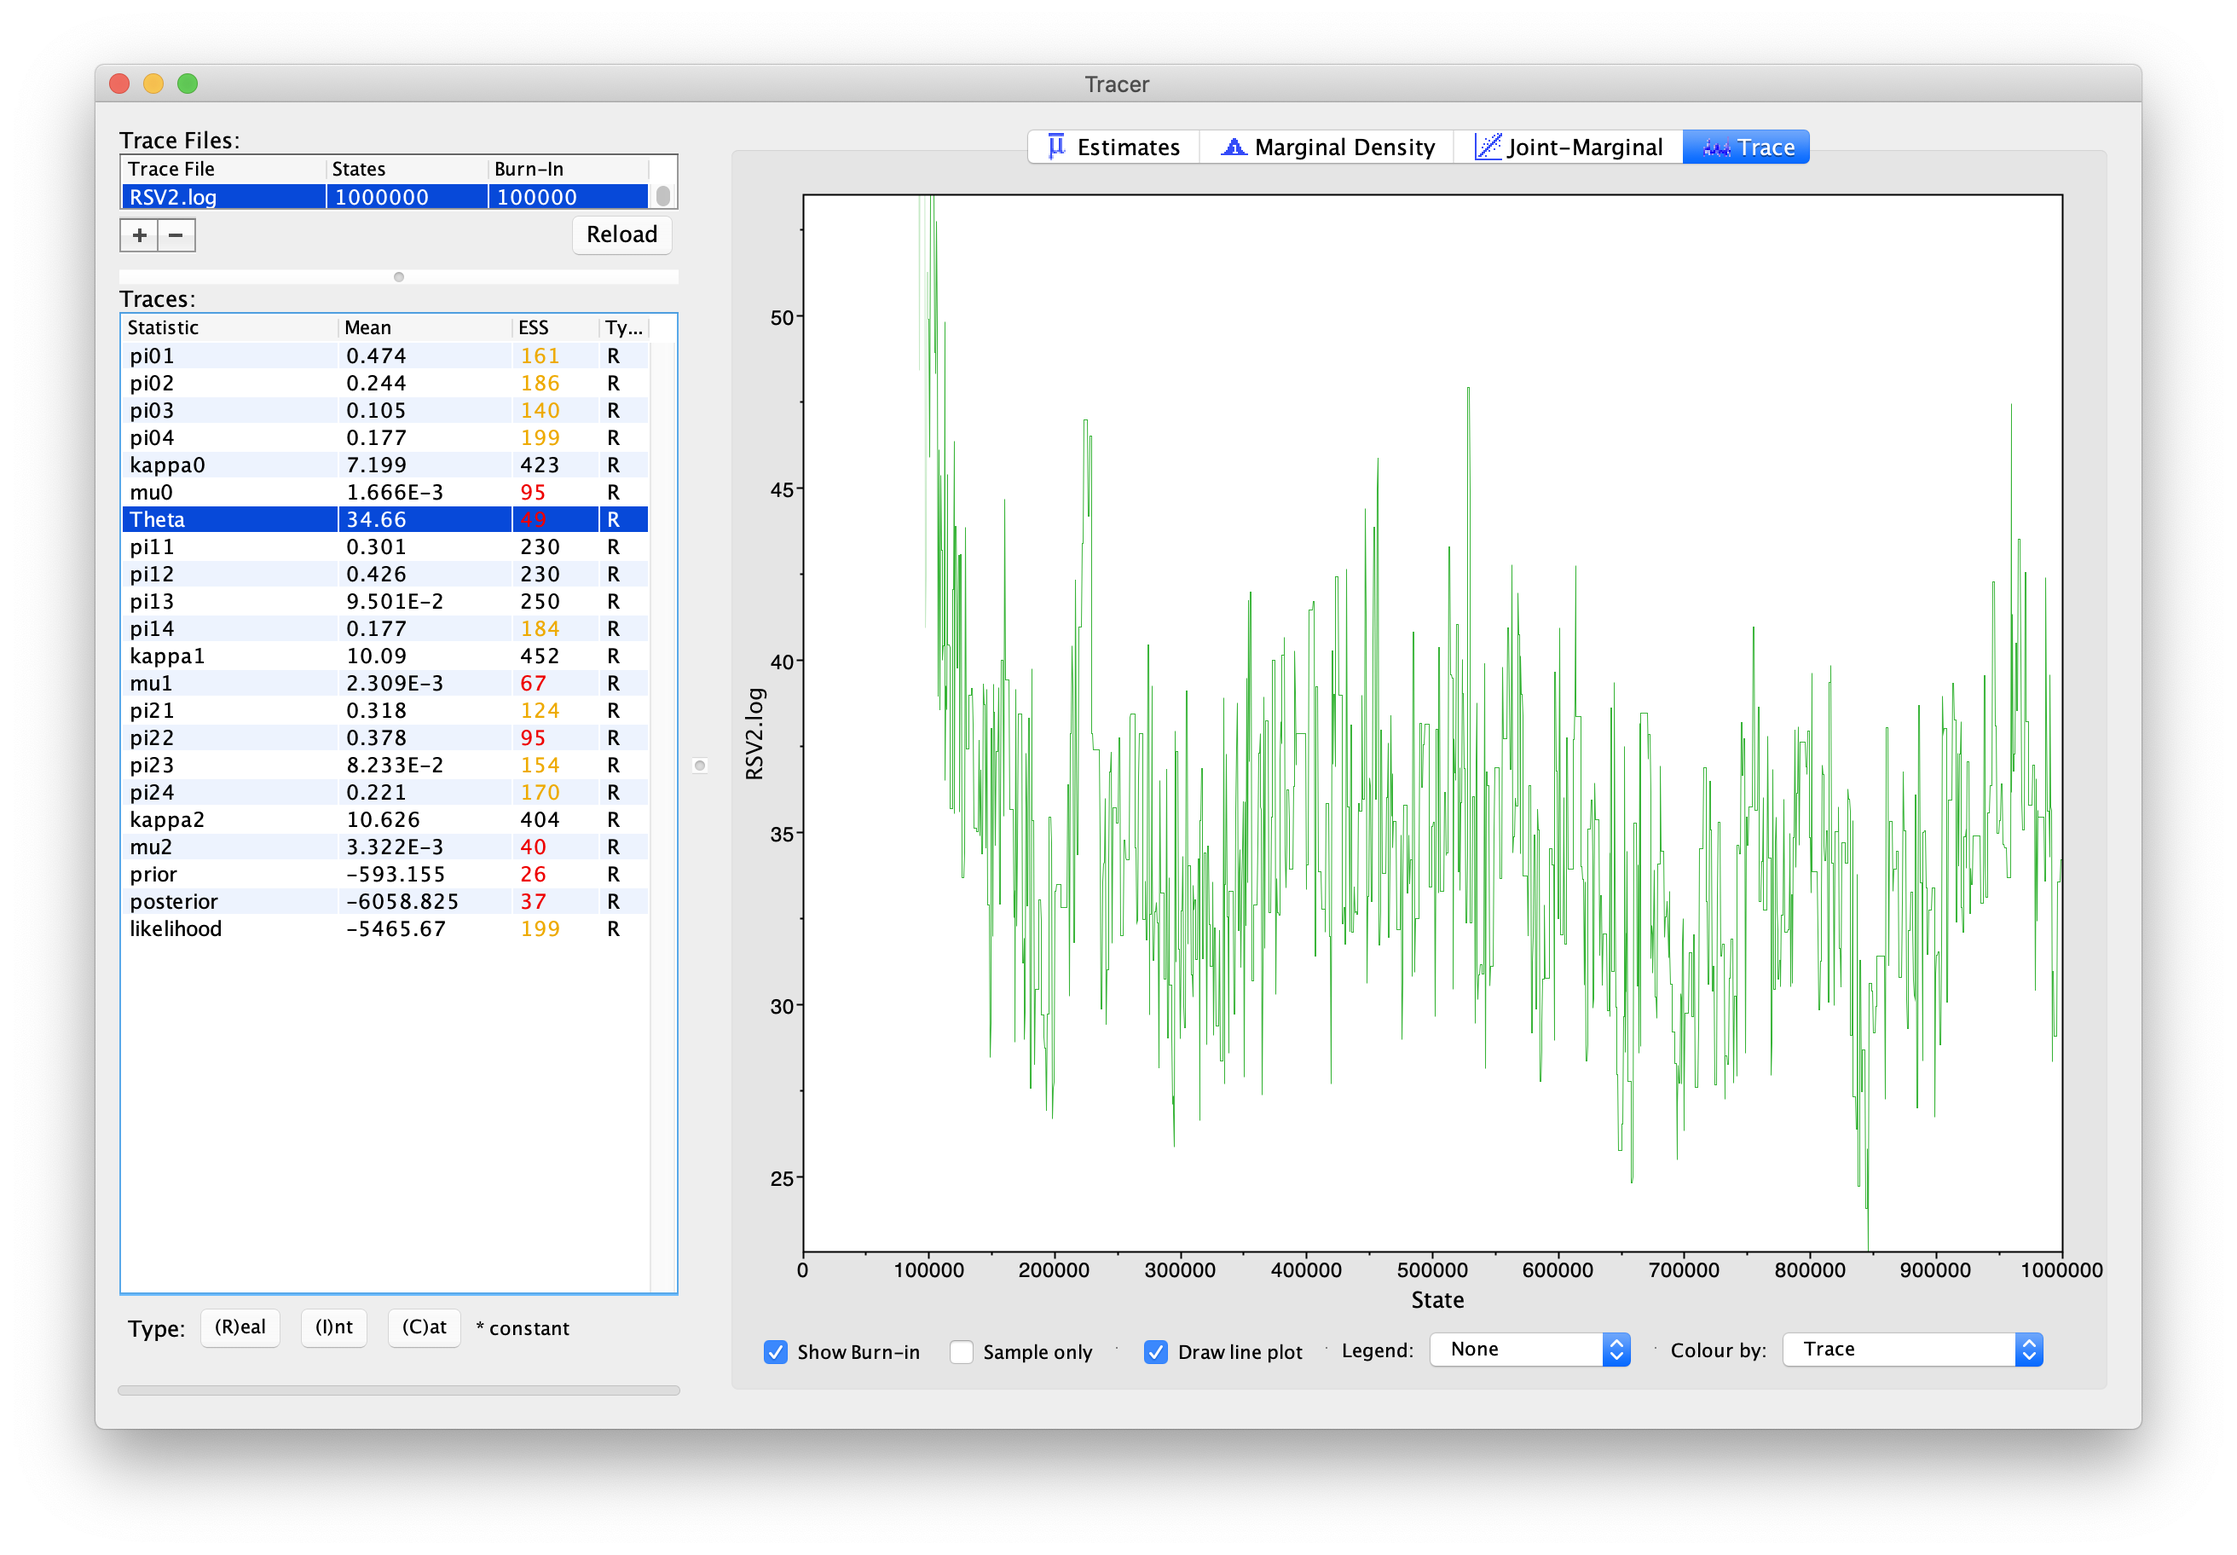
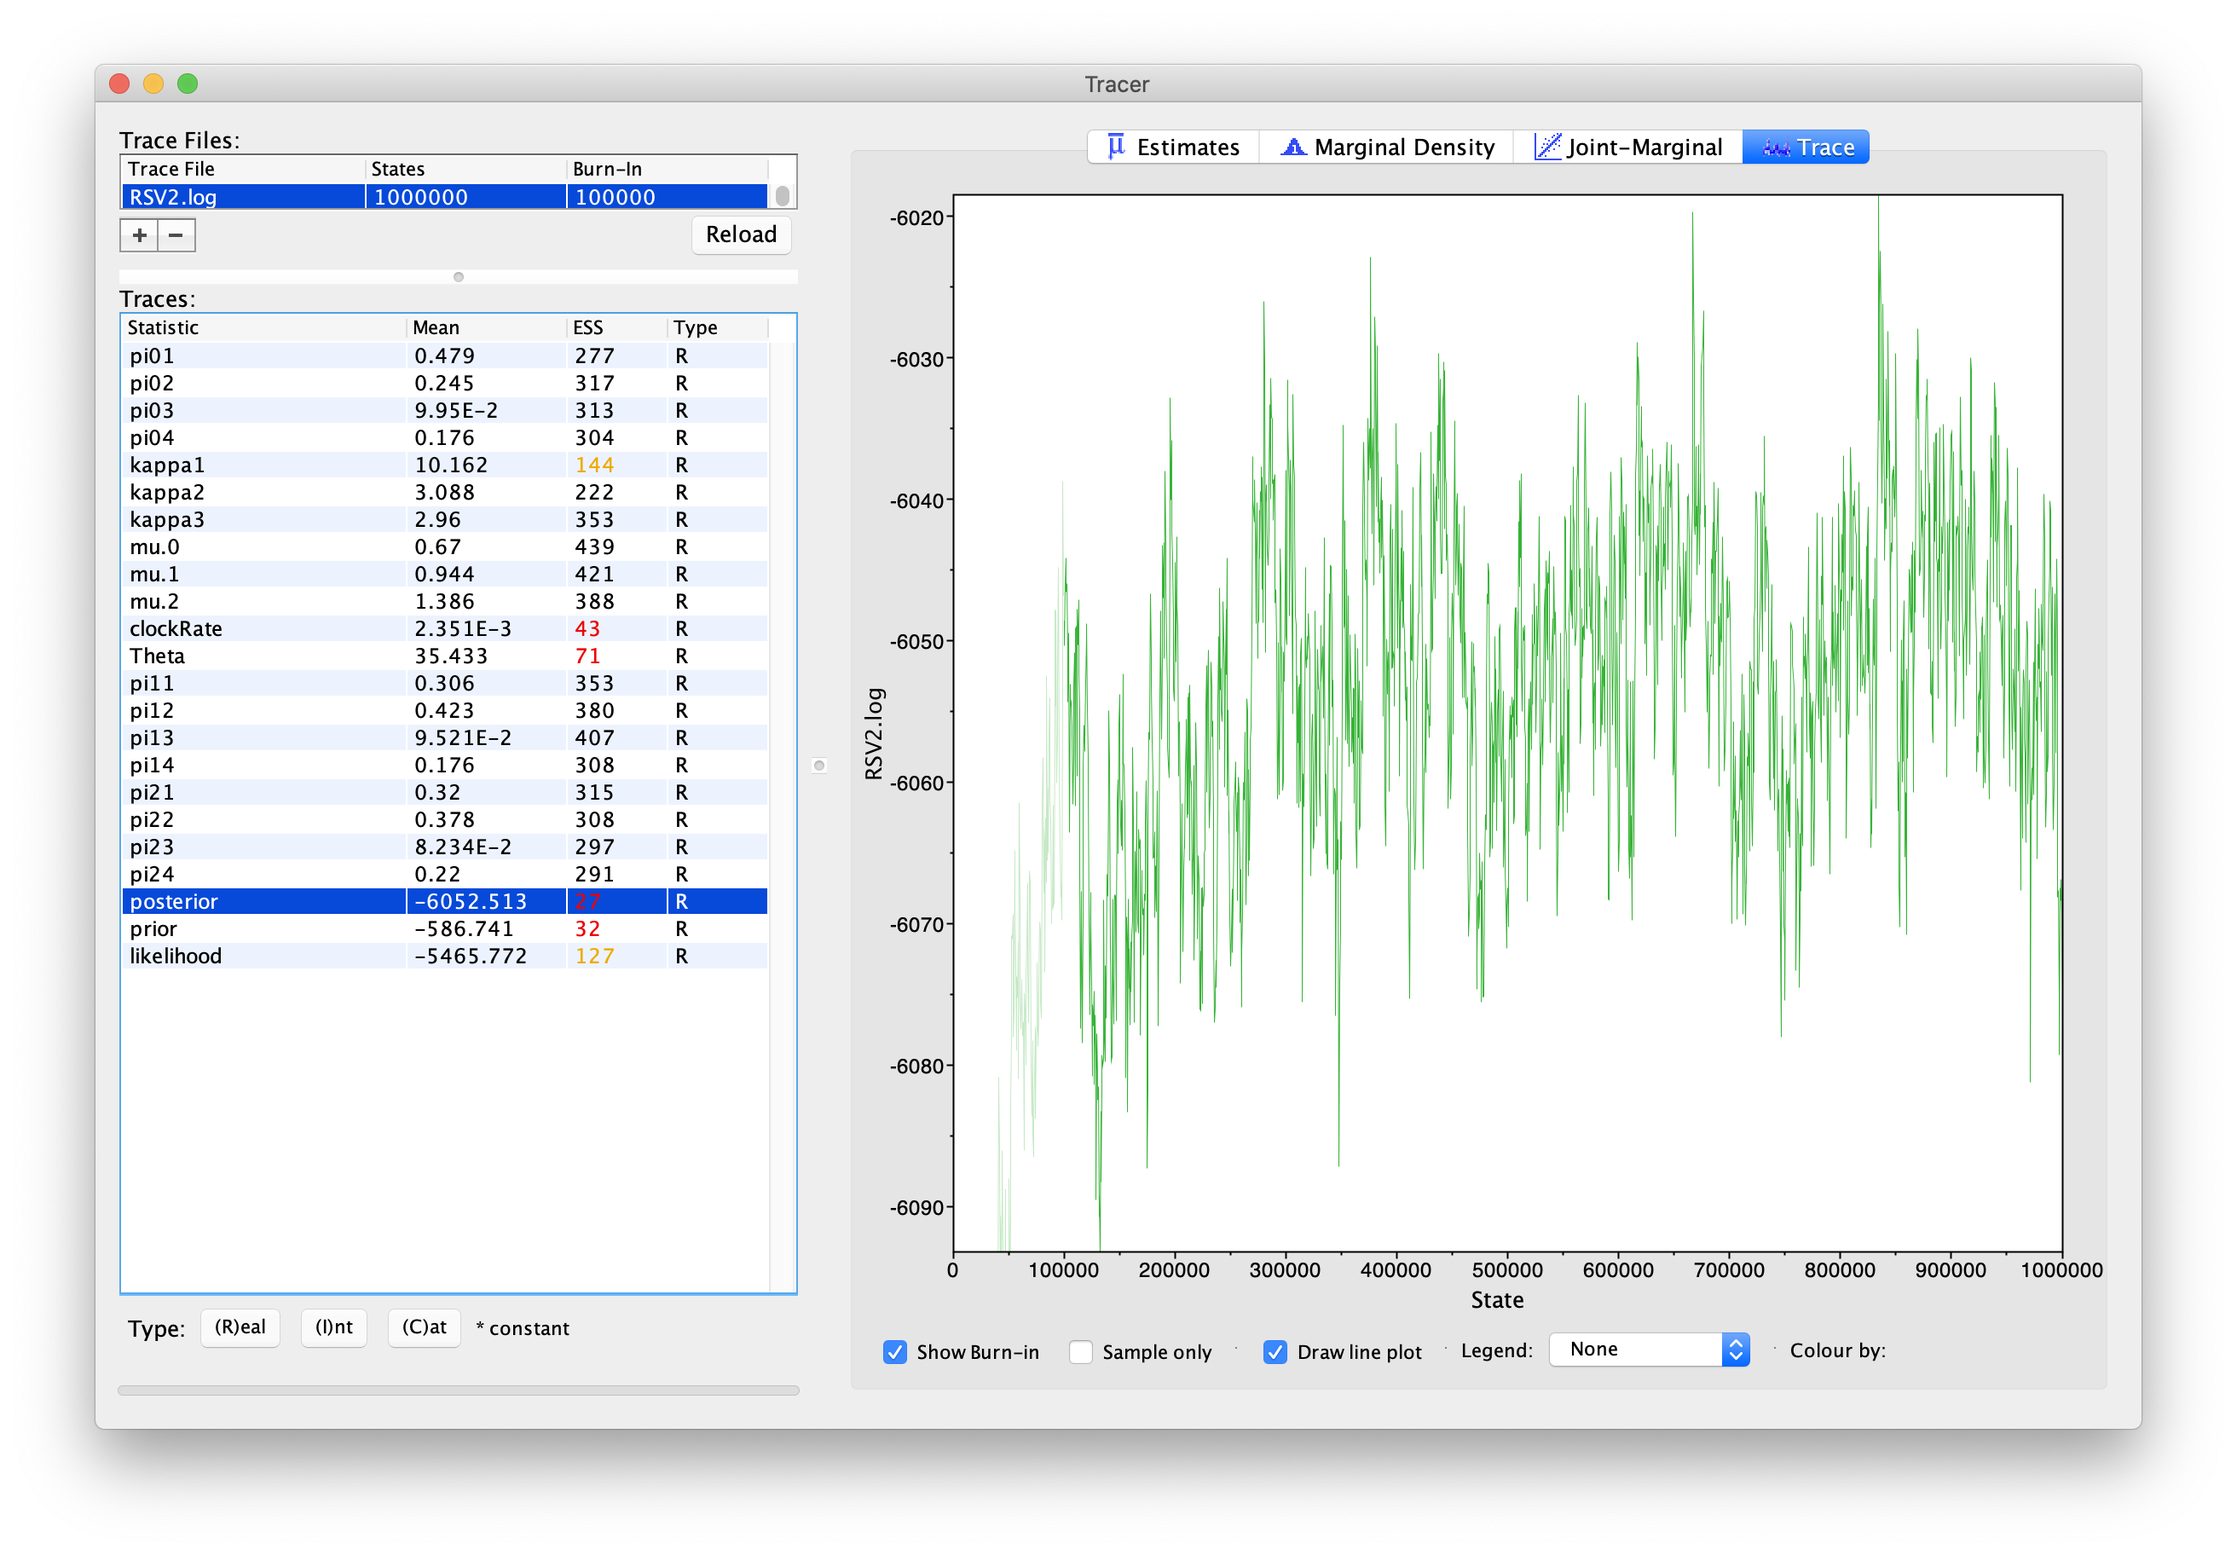
update tutorial after new scripts

Changed region(s): [[0.0312, 0.0938, 0.9375, 0.9062], [0.4688, 0.0625, 0.8438, 0.125], [0.1562, 0.0938, 0.1875, 0.1562]]

diff --git a/tutorials/time-stamped-data.md b/tutorials/time-stamped-data.md
@@ -26,7 +26,10 @@ The following software will be used in this tutorial:
   This tutorial is written for BEAST v2.6.x, which has support for multiple partitions. 
   It is available for download from [http://www.beast2.org](http://www.beast2.org).
 * BEAST outercore package - this package of BEAST 2 has core features, but not in the core.
-  You can install and use it following the instruction of [managing BEAST 2 packages](http://www.beast2.org/managing-packages/). 
+  You can install and use it following the instruction of [managing BEAST 2 packages](http://www.beast2.org/managing-packages/).
+* BEAST labs package - containing some generally useful stuff used by other packages.
+* BEAST feast package - this is a small BEAST 2 package which contains additions to the core functionality. 
+  You need install it separately following the instruction of [feast website](https://github.com/tgvaughan/feast).  
 * Tracer - this program is used to explore the output of BEAST (and other Bayesian MCMC programs). 
   It graphically and quantitively summarises the distributions of continuous parameters and provides diagnostic information. 
   At the time of writing, the current version is v1.7. It is available for download from [http://beast.community/tracer](http://beast.community/tracer).
@@ -74,11 +77,12 @@ and type or copy and paste the following scripts into the console.
 ```
 data {
   options = {ageDirection="forward", ageRegex="s(\d+)$"};
-  D = readNexus(file="RSV2.nex", options=options);
+  D = readNexus(file="examples/RSV2.nex", options=options);
   taxa = taxa(D);
-  codon1 = D.charset("3-629\3");
-  codon2 = D.charset("4-629\3");
-  codon3 = D.charset("5-629\3");
+  codon0 = D.charset("3-629\3");
+  codon1 = D.charset("4-629\3");
+  codon2 = D.charset("5-629\3");
+  weights = [codon0.nchar(), codon1.nchar(), codon2.nchar()]
 }
 ```
 
@@ -91,16 +95,19 @@ and cannot be used as the variable name.
 This block is to define and also describe your models and parameters used in the Bayesian phylogenetic analysis.
 Therefore, your results could be reproduced by other researchers using the same model. 
 
-In this analysis, we will use the HKY model with estimated frequencies for all three partitions, 
+In this analysis, we will use three HKY models with estimated frequencies for each of three partitions, 
 and share the strict clock model and a Kingman coalescent tree generative distribution across partitions. 
+But we are also interested about the relative substitution rate for each of three partitions.
 
-We also define the priors for the following parameters:
+So, we define the priors for the following parameters:
 1. the effective population size _Θ_;  
-2. the clock rate _mu_;
-3. the transition/transversion ratio _kappa_;
-4. the base frequencies _pi_. 
+2. the general clock rate _clockRate_ 
+3. the relative substitution rates _mu_ which has 3 dimensions;
+4. the transition/transversion ratio _kappa_ which also has 3 dimensions;
+5. the base frequencies _pi0_, _pi1_, and _pi2_. 
 
-Of course, except of _Θ_, we will have 3 parameters each regarding to the 3 partitions.
+The benefit of using 3 relative substitution rates here instead of 3 clock rates is that we could use the DeltaExchangeOperator
+to these relative rates in the MCMC sampling to help the converagence.
 
 Please note the tree here is already the time tree, the age direction will have been processed in `data` block.
 
@@ -112,20 +119,19 @@ and type or copy and paste the following scripts into the console.
 
 ```
 model {
-  Θ ~ LogNormal(meanlog=3.0, sdlog=1.0);
+  Θ ~ LogNormal(meanlog=3.0, sdlog=2.0);
   ψ ~ Coalescent(taxa=taxa, theta=Θ);
+  kappa ~ LogNormal(meanlog=1.0, sdlog=0.5, n=3);
+
+  mu ~ WeightedDirichlet(conc=[1.0,1.0,1.0], weights=weights);
+  clockRate ~ LogNormal(meanlog=-5.0, sdlog=1.25);
+
   pi0 ~ Dirichlet(conc=[2.0,2.0,2.0,2.0]);
-  kappa0 ~ LogNormal(meanlog=1.0, sdlog=0.5);
-  mu0 ~ LogNormal(meanlog=-5.0, sdlog=1.25);
-  codon0 ~ PhyloCTMC(L=codon0.nchar(), Q=hky(kappa=kappa0, freq=pi0), mu=mu0, tree=ψ);
+  codon0 ~ PhyloCTMC(L=codon0.nchar(), Q=hky(kappa=kappa[0], freq=pi0, meanRate=mu[0]), mu=clockRate, tree=ψ);
   pi1 ~ Dirichlet(conc=[2.0,2.0,2.0,2.0]);
-  kappa1 ~ LogNormal(meanlog=1.0, sdlog=0.5);
-  mu1 ~ LogNormal(meanlog=-5.0, sdlog=1.25);
-  codon1 ~ PhyloCTMC(L=codon1.nchar(), Q=hky(kappa=kappa1, freq=pi1), mu=mu1, tree=ψ);
+  codon1 ~ PhyloCTMC(L=codon1.nchar(), Q=hky(kappa=kappa[1], freq=pi1, meanRate=mu[1]), mu=clockRate, tree=ψ);
   pi2 ~ Dirichlet(conc=[2.0,2.0,2.0,2.0]);
-  kappa2 ~ LogNormal(meanlog=1.0, sdlog=0.5);
-  mu2 ~ LogNormal(meanlog=-5.0, sdlog=1.25);
-  codon2 ~ PhyloCTMC(L=codon2.nchar(), Q=hky(kappa=kappa2, freq=pi2), mu=mu2, tree=ψ);
+  codon2 ~ PhyloCTMC(L=codon2.nchar(), Q=hky(kappa=kappa[2], freq=pi2, meanRate=mu[2]), mu=clockRate, tree=ψ);
 }
 ```
 
@@ -139,7 +145,7 @@ You can also look at the value, including alignment or tree, by simply clicking 
   <figcaption>The Screenshot of LinguaPhylo Studio</figcaption>
 </figure>
 
-The example file `RSV2.lphy` is also available. Looking for the menu `File` and then `Examples`, 
+Tips: the example file `RSV2.lphy` is also available. Looking for the menu `File` and then `Examples`, 
 you can find it and load the scripts after clicking. 
 
 
@@ -206,36 +212,31 @@ Gerton Lunter, Sidney Markowitz, Vladimir Minin, Michael Defoin Platel,
                                Thanks to:
           Roald Forsberg, Beth Shapiro and Korbinian Strimmer
 
-Random number seed: 1603160064437
+Random number seed: 1603419667128
 
-File: RSV2.xml seed: 1603160064437 threads: 1
-
-    ...
+File: RSV2.xml seed: 1603419667128 threads: 1
 
     ...
-         950000         0.4732         0.2470         0.0914         0.1882         7.4607         ...     -5483.9630 2m47s/Msamples
-        1000000         0.4816         0.2517         0.1142         0.1523         6.3397         ...     -5460.1688 2m47s/Msamples
 
-Operator                                     Tuning    #accept    #reject      Pr(m)  Pr(acc|m)
-ScaleOperator(Theta.scale)                  0.61020       1127       2778    0.00394    0.28860 
-ScaleOperator(kappa0.scale)                 0.42446       1095       2868    0.00394    0.27631 
-ScaleOperator(kappa1.scale)                 0.47367       1181       2695    0.00394    0.30470 
-ScaleOperator(kappa2.scale)                 0.50246       1158       2735    0.00394    0.29746 
-ScaleOperator(mu0.scale)                    0.63620        969       2965    0.00394    0.24631 
-UpDownOperator(mu0UppsiDownOperator)        0.95537       5900     112930    0.11827    0.04965 Try setting scaleFactor to about 0.977
-ScaleOperator(mu1.scale)                    0.68340       1059       2973    0.00394    0.26265 
-UpDownOperator(mu1UppsiDownOperator)        0.95149       5532     112345    0.11827    0.04693 Try setting scaleFactor to about 0.975
-ScaleOperator(mu2.scale)                    0.68255        893       3011    0.00394    0.22874 
-UpDownOperator(mu2UppsiDownOperator)        0.92861       3675     114528    0.11827    0.03109 Try setting scaleFactor to about 0.964
-DeltaExchangeOperator(pi0.deltaExchange)    0.17670       1043       7286    0.00850    0.12523 
-DeltaExchangeOperator(pi1.deltaExchange)    0.13482       1372       7183    0.00850    0.16037 
-DeltaExchangeOperator(pi2.deltaExchange)    0.21181        694       7706    0.00850    0.08262 Try setting delta to about 0.106
-Exchange(psi.narrowExchange)                      -      29190      88431    0.11763    0.24817 
-ScaleOperator(psi.rootAgeScale)             0.73246        487       3492    0.00394    0.12239 
-ScaleOperator(psi.scale)                    0.90846       2766     115129    0.11763    0.02346 Try setting scaleFactor to about 0.953
-SubtreeSlide(psi.subtreeSlide)             13.19227       5571     112243    0.11763    0.04729 Try decreasing size to about 6.596
-Uniform(psi.uniform)                              -      63234      54077    0.11763    0.53903 
-Exchange(psi.wideExchange)                        -        351     117329    0.11763    0.00298 
+    ...
+         950000         0.5249         0.2566         0.0795         0.1389        10.3895         ...     -5475.6236 2m25s/Msamples
+        1000000         0.5088         0.2166         0.0977         0.1767        10.0793         ...     -5469.0172 2m25s/Msamples
+
+Operator                                       Tuning    #accept    #reject      Pr(m)  Pr(acc|m)
+ScaleOperator(Theta.scale)                    0.58529       1342       3890    0.00519    0.25650 
+ScaleOperator(clockRate.scale)                0.74669       1064       4178    0.00519    0.20298 
+UpDownOperator(clockRateUppsiDownOperator)    0.92667       5075     151107    0.15590    0.03249 Try setting scaleFactor to about 0.963
+ScaleOperator(kappa.scale)                    0.29583       3522       7700    0.01121    0.31385 
+DeltaExchangeOperator(mu.deltaExchange)       0.33461       1733       6774    0.00844    0.20371 
+DeltaExchangeOperator(pi0.deltaExchange)      0.15065       1642       9480    0.01121    0.14764 
+DeltaExchangeOperator(pi1.deltaExchange)      0.11862       1962       9280    0.01121    0.17452 
+DeltaExchangeOperator(pi2.deltaExchange)      0.12935       1665       9605    0.01121    0.14774 
+Exchange(psi.narrowExchange)                        -      38340     116847    0.15505    0.24706 
+ScaleOperator(psi.rootAgeScale)               0.74434        651       4438    0.00519    0.12792 
+ScaleOperator(psi.scale)                      0.91815       4401     150074    0.15505    0.02849 Try setting scaleFactor to about 0.958
+SubtreeSlide(psi.subtreeSlide)                5.17988      17843     137532    0.15505    0.11484 
+Uniform(psi.uniform)                                -      83348      71204    0.15505    0.53929 
+Exchange(psi.wideExchange)                          -        370     154934    0.15505    0.00238 
 
      Tuning: The value of the operator's tuning parameter, or '-' if the operator can't be optimized.
     #accept: The total number of times a proposal by this operator has been accepted.
@@ -244,9 +245,8 @@ Exchange(psi.wideExchange)                        -        351     117329    0.1
   Pr(acc|m): The acceptance probability (#accept as a fraction of the total proposals for this operator).
 
 
-Total calculation time: 167.99 seconds
-End likelihood: -6043.710381365199
-
+Total calculation time: 147.245 seconds
+End likelihood: -6074.526170858627
 ```
 
 ## Analysing the BEAST output
@@ -352,64 +352,6 @@ Below a DensiTree with clade height bars for clades with over 50% support. Root 
 
 In what year did the common ancestor of all RSVA viruses sampled live? What is the 95% HPD?
 
-
-## Bonus section: Bayesian Skyline plot
-
-We can reconstruct the population history using the Bayesian Skyline plot. 
-In order to do so, change your coalescent model into `SkylineCoalescent`, where _Θ_ is an array now 
-and its length is the number of groups used in the skyline analysis. We set it to 5. 
-
-```
-  Θ ~ LogNormal(meanlog=-5.0, sdlog=1.25, n=5);
-  ψ ~ SkylineCoalescent(taxa=taxa, theta=Θ);
-```
-
-More groups mean more population changes can be detected, but it also means more parameters need to be estimated and the chain runs longer. 
-The extended Bayesian skyline plot automatically detects the number of changes, so it could be used as an alternative tree prior.
-
-
-Figure 17: Priors
-
-
-This analysis requires a bit longer to converge, so change the MCMC chain length to 10 million, 
-and the log intervals for the trace-log and tree-log to 10 thousand. Then, save the file and run `LPhyBEAST` and then `BEAST`. 
-You can also download the log (RSV2-bsp.log) and tree (tree-bsp.trees) files from the precooked-runs directory.
-
-To plot the population history, load the log file in tracer and select the menu Analysis/Bayesian Skyline Reconstruction.
-
-
-Figure 19: Bayesian Skyline Reconstruction in Tracer
-
-
-A dialog is shown where you can specify the tree file associated with the log file. 
-Also, since the youngest sample is from 2002, change the entry for age of youngest tip to 2002.
-
-
-Figure 20: Bayesian Skyline Reconstruction dialog in Tracer
-
-
-After some calculation, a graph appears showing population history where the median and 95% HPD intervals are plotted. 
-After selecting the solid interval checkbox, the graph should look something like this.
-
-
-Figure 21: Bayesian Skyline Reconstruction
-
-
-### Questions
-
-* By what amount did the effective population size of RSVA grow from 1970 to 2002 according to the BSP?
-
-* What are the underlying assumptions of the BSP? Are the violated by this data set?
-
-## Exercise
-
-Change the Bayesian skyline prior to extended Bayesian skyline plot (EBSP) prior and run till convergence. 
-EBSP produces an extra log file, called EBSP.$(seed).log where $(seed) is replaced by the seed you used to run BEAST. 
-A plot can be created by running the EBSPAnalyser utility, and loading the output file in a spreadsheet.
-
-* How many groups are indicated by the EBSP analysis? 
-* This is much lower than for BSP. 
-* How does this affect the population history plots?
 
 ## Useful Links
 
